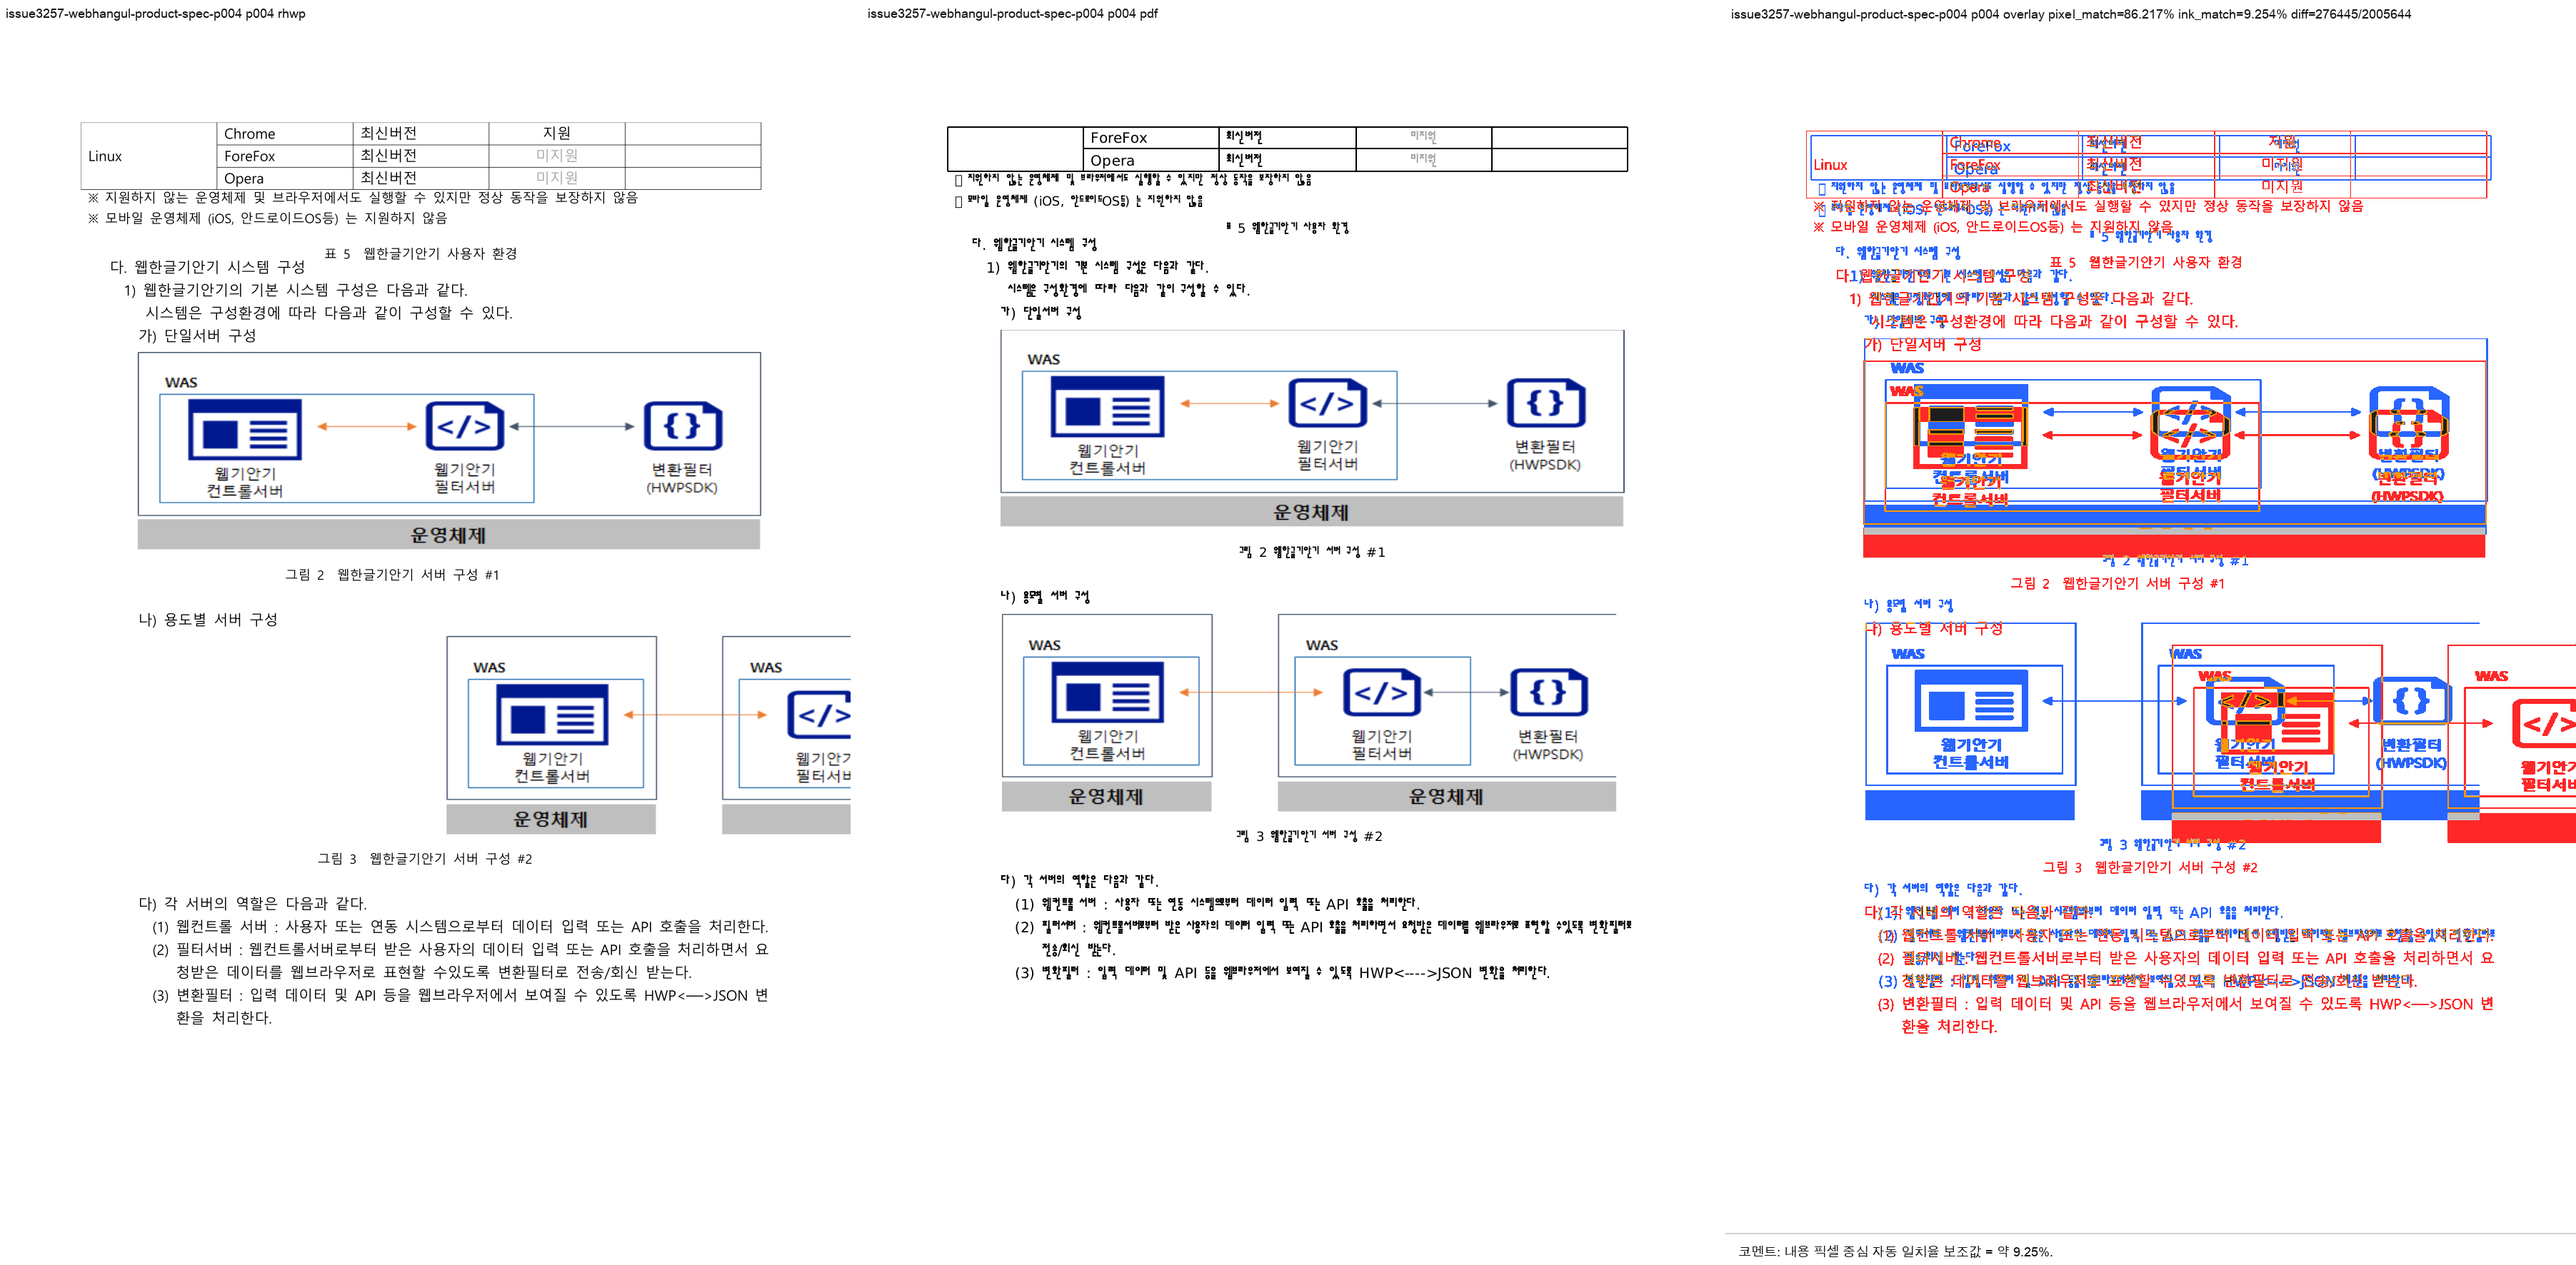
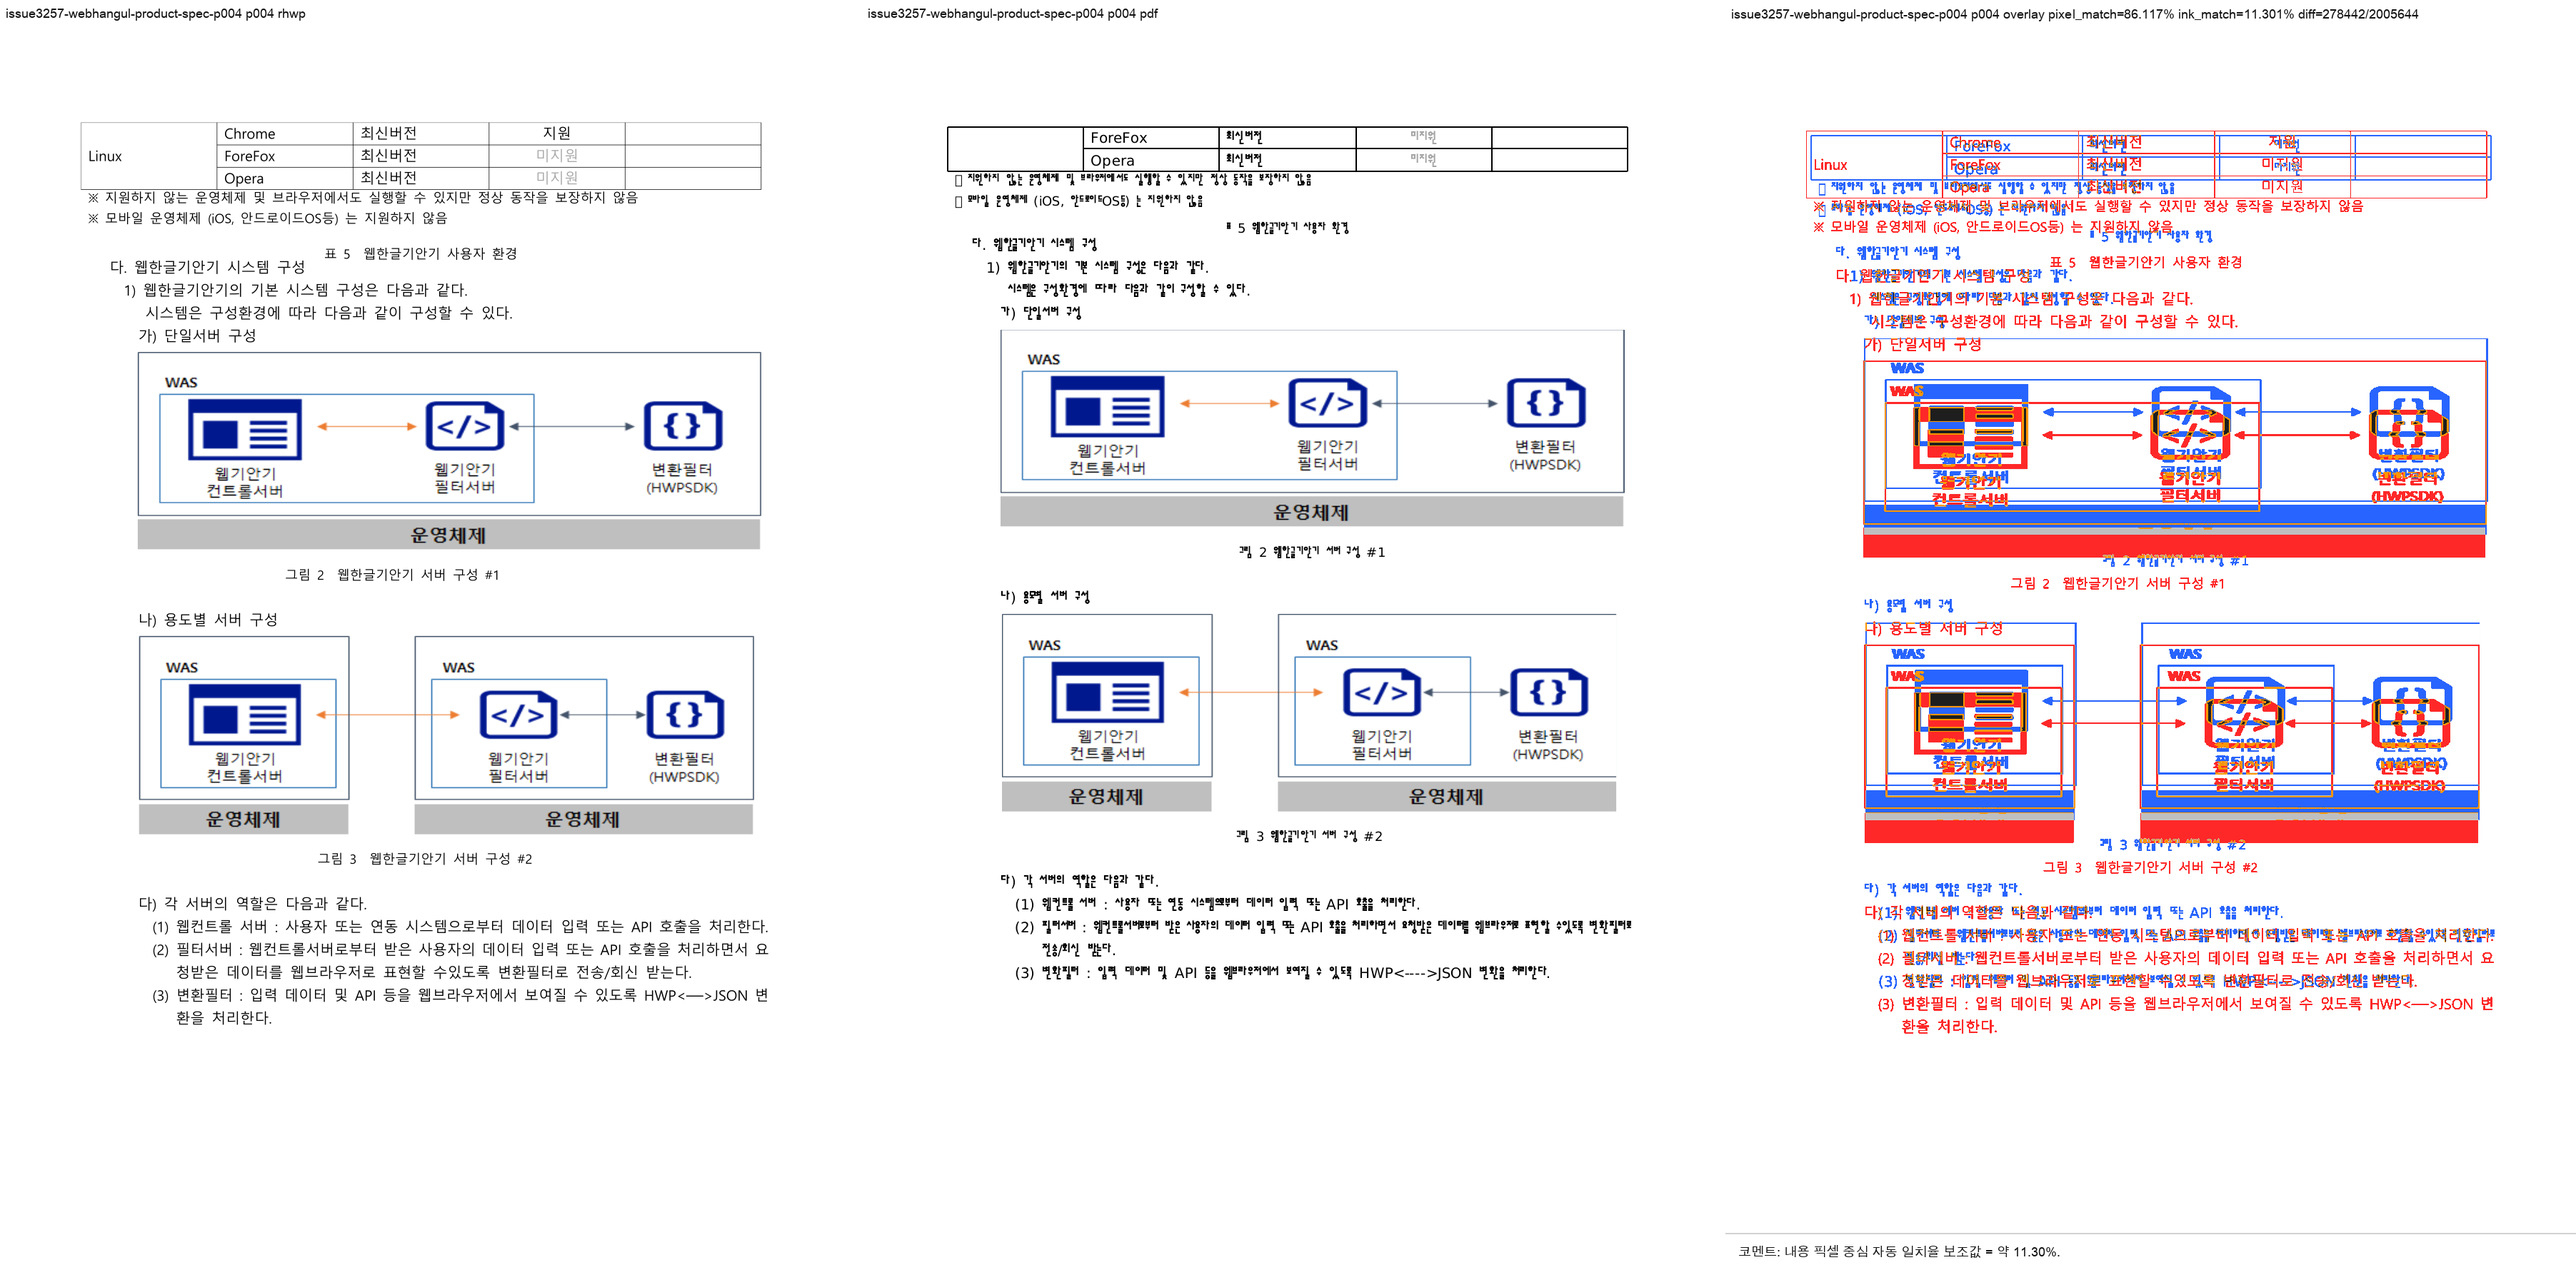
docs: #3257 시각 검증 산출물 재생성

Changed region(s): [[0.7142, 0.5277, 1.0, 0.6828], [0.0311, 0.4966, 0.3416, 0.6828], [0.8694, 0.0, 0.9315, 0.031]]

diff --git a/mydocs/report/task_m100_3257_report.md b/mydocs/report/task_m100_3257_report.md
@@ -34,8 +34,8 @@
 ![#3257 4쪽 rhwp·HWP 2020 비교 및 overlay](assets/task_m100_3257/visual_sweep_review_004.png)
 
 - sweep 자동 후보: `0/1`
-- pixel match: `86.21665%`
-- visual_accuracy_proxy_percent: `9.25429%` — 한컴 전용 글꼴과 기존 전체 줄 위치 차이를
+- pixel match: `86.11708%`
+- visual_accuracy_proxy_percent: `11.30076%` — 한컴 전용 글꼴과 기존 전체 줄 위치 차이를
   함께 반영하는 보조값이므로, 그림의 본문 내 완전 표시 여부는 위 실제 비교 이미지와
   render-tree 좌표로 별도 판정했다.
 - 임시 산출물: `compare/compare_004.png`, `overlay/overlay_004.png`,
